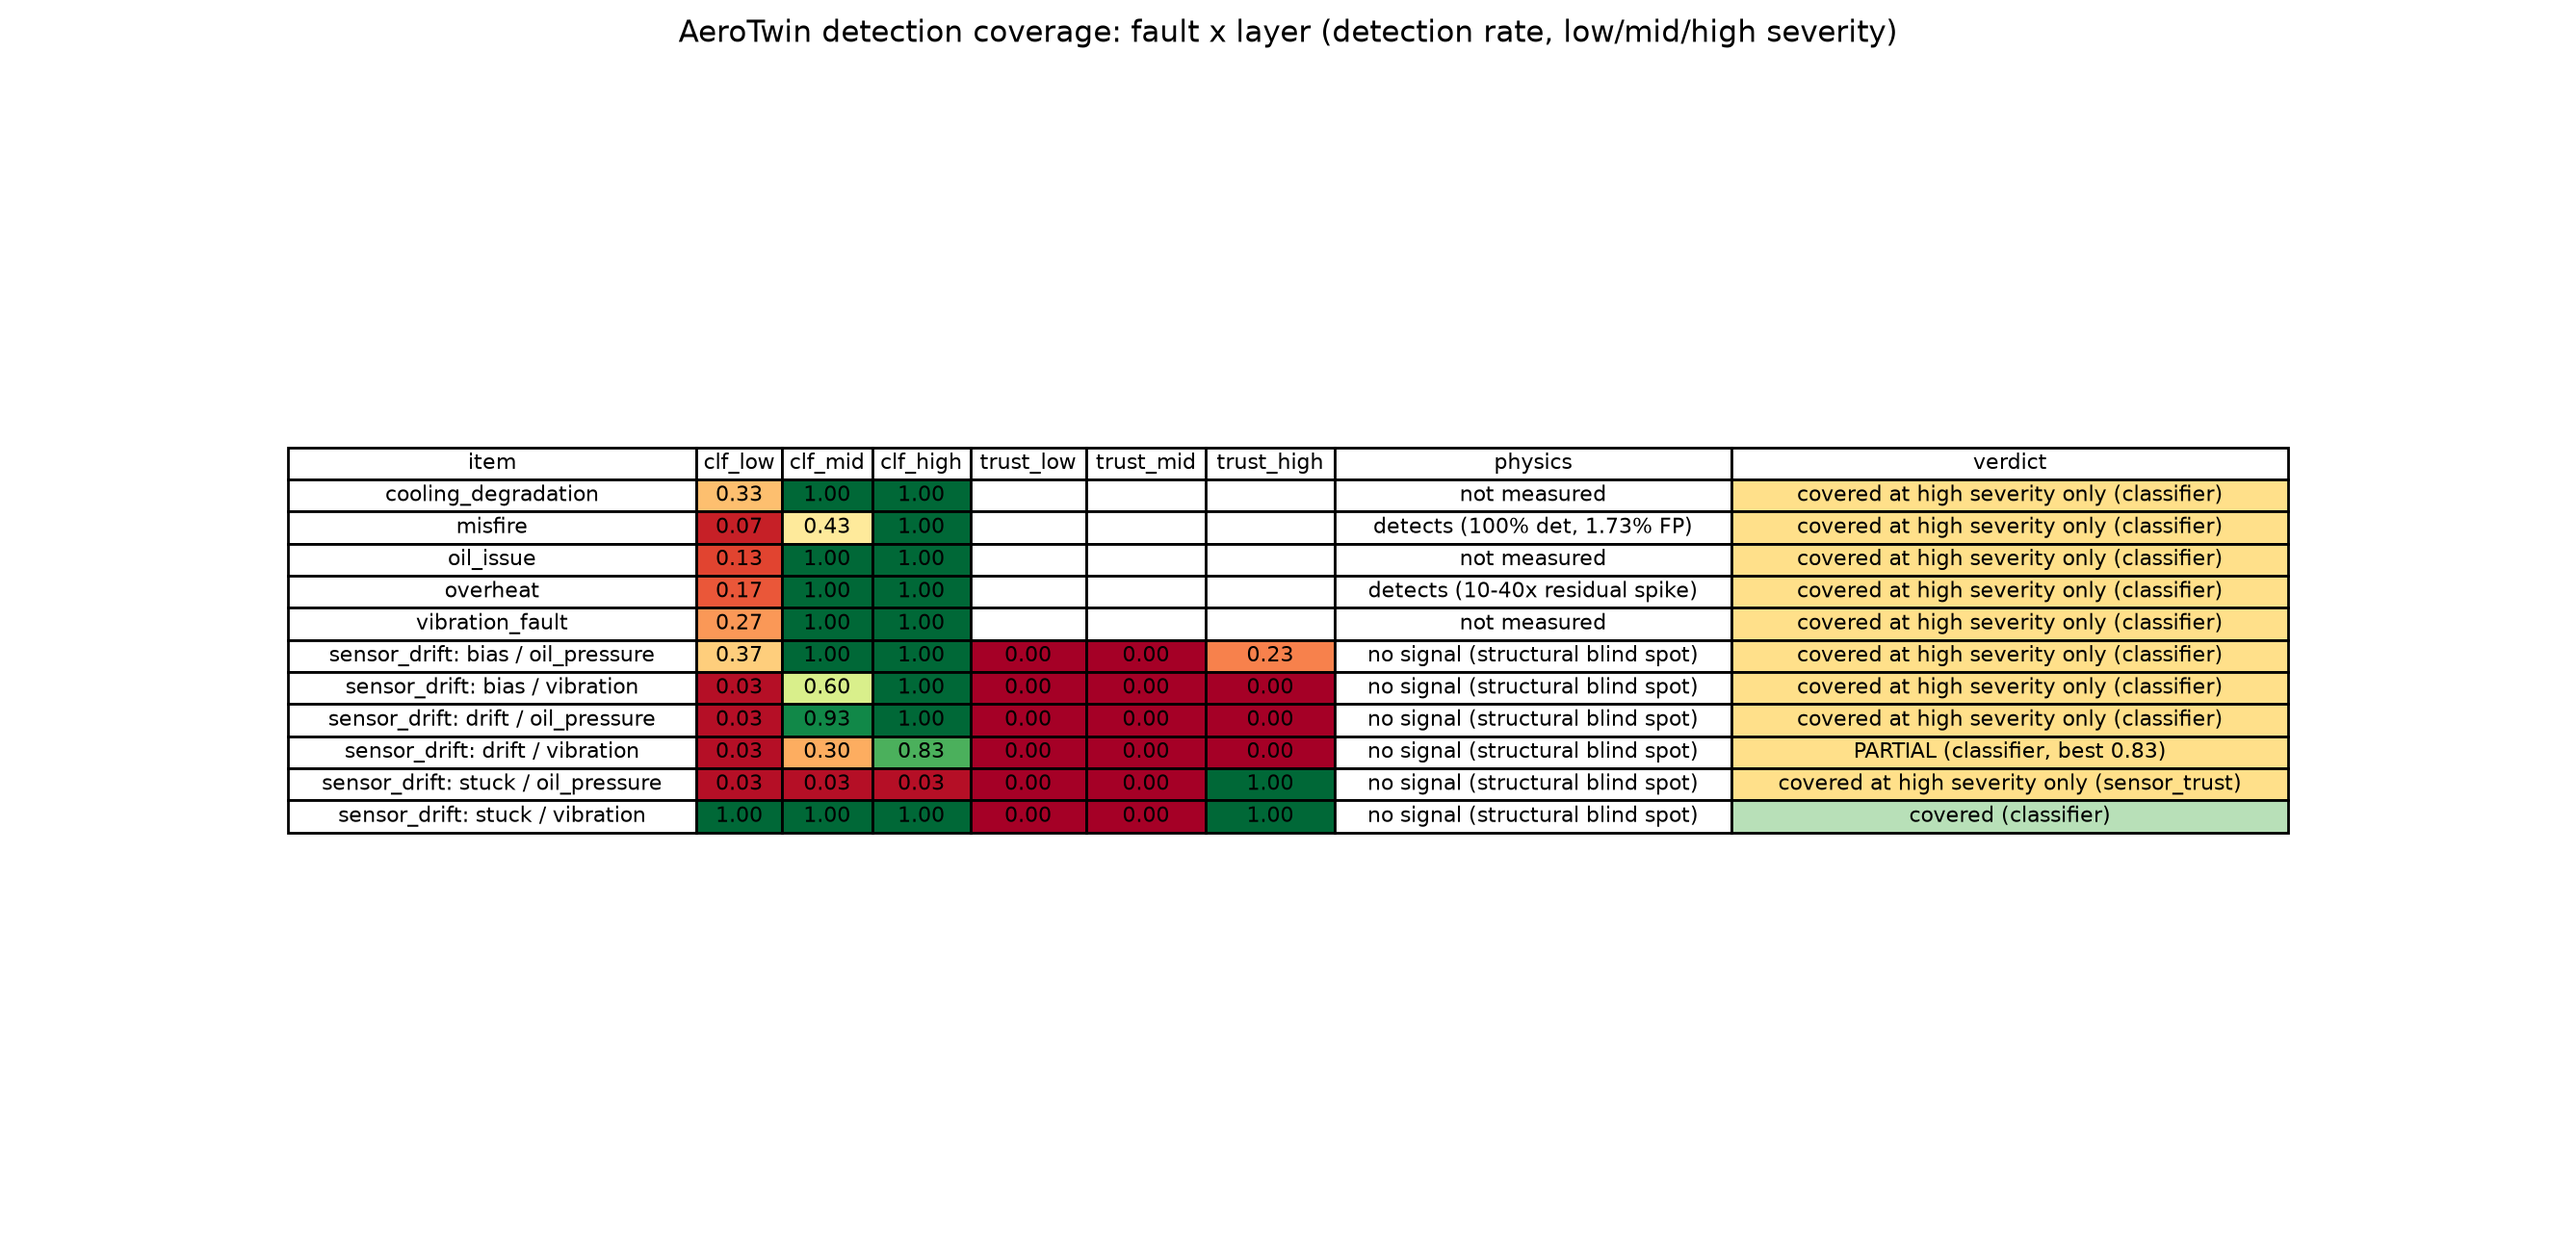
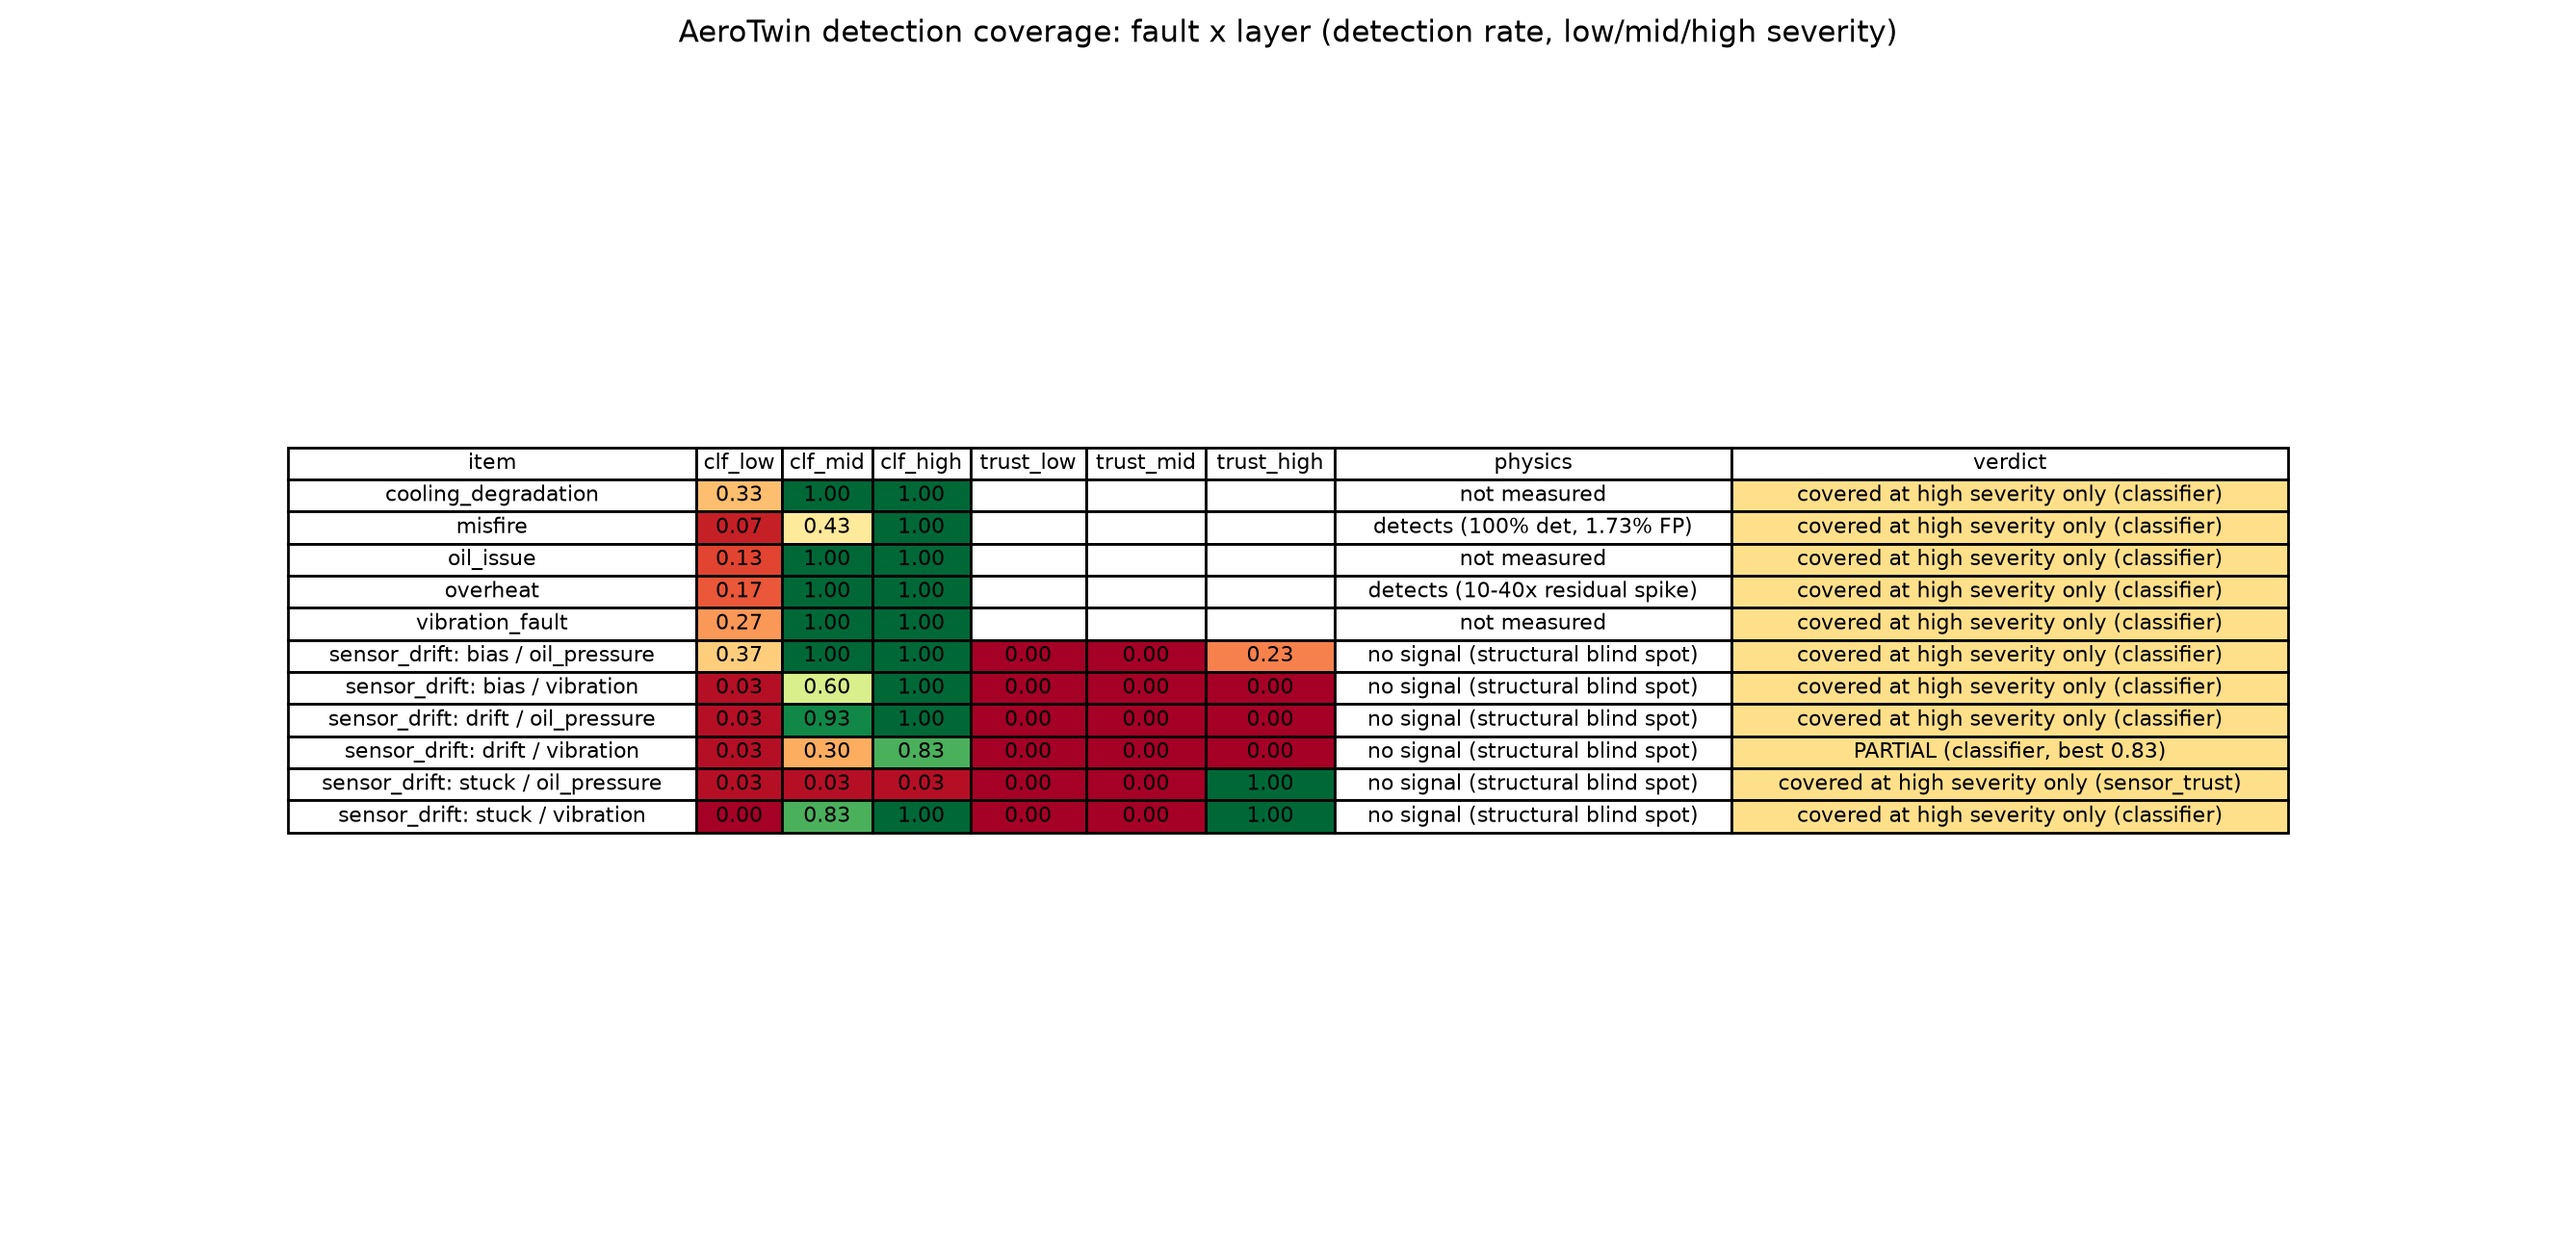
fault injectors: severity scales all components; regenerate POD + coverage results

Changed region(s): [[0.6516, 0.6206, 0.8998, 0.6827], [0.2482, 0.6206, 0.3413, 0.6827]]

diff --git a/simulator/fault_injectors.py b/simulator/fault_injectors.py
@@ -8,6 +8,21 @@ perturbs sensors after onset to simulate the fault developing, and returns
 a faulted DataFrame with ground-truth RUL columns attached (since the fault
 onset/failure point is known by construction).
 
+SEVERITY SCALING (revision): severity now scales EVERY component of a fault,
+so severity=0 returns the healthy signal unchanged (apart from labels/RUL
+columns). Previously these parts ignored severity, which made low-severity
+detection look better than it is (noise cue, not a real offset):
+  - misfire: base misfire probability, RPM/EGT/vibration event sizes
+  - overheat / overheat_recovery / cooling_degradation / oil_issue:
+    per-row added noise
+  - vibration_fault: burstiness (spike_std)
+  - sensor_drift "stuck": now a partial freeze -- the sensor tracks the true
+    signal with weight (1 - min(severity, 1)); severity >= 1 is a full freeze
+At severity=1.0 every injector produces output identical to the previous
+version for the same seed (same random draws, multiplied by 1.0), so existing
+flights, the RUL model and the classifier stay valid. Results at other
+severities change by design -- rerun pod_sweep.py.
+
 Run directly to sanity-check + plot: python simulator/fault_injectors.py
 """
 import numpy as np
@@ -55,6 +70,9 @@ def inject_misfire(df, onset_frac=None, severity=1.0, seed=None):
     Misfire: irregular RPM drops (individual cylinder firing failures) with
     corresponding EGT spikes on the affected cycles (unburnt fuel igniting
     late in the exhaust). Gets more frequent/severe as it approaches failure.
+
+    Severity scales both how often misfires happen (including the 0.05 base
+    rate) and how large each event is (RPM drop, EGT spike, vibration).
     """
     rng = np.random.default_rng(seed)
     df = df.copy()
@@ -66,11 +84,11 @@ def inject_misfire(df, onset_frac=None, severity=1.0, seed=None):
     for i in range(onset_idx, n):
         linear_progress = (i - onset_idx) / max(1, (failure_idx - onset_idx))  # 0 -> 1
         progress = _degradation_curve(linear_progress)  # convex, calibrated to C-MAPSS shape
-        misfire_prob = 0.05 + 0.5 * progress * severity
+        misfire_prob = min(1.0, severity * (0.05 + 0.5 * progress))
         if rng.random() < misfire_prob:
-            df.loc[i, "rpm"] -= rng.uniform(80, 250) * (0.5 + progress)
-            df.loc[i, "egt"] += rng.uniform(15, 60) * (0.5 + progress)
-            df.loc[i, "vibration"] += rng.uniform(0.3, 1.0) * (0.5 + progress)
+            df.loc[i, "rpm"] -= rng.uniform(80, 250) * (0.5 + progress) * severity
+            df.loc[i, "egt"] += rng.uniform(15, 60) * (0.5 + progress) * severity
+            df.loc[i, "vibration"] += rng.uniform(0.3, 1.0) * (0.5 + progress) * severity
             df.loc[i, "fault_type"] = "misfire"
 
     df = _add_rul_column(df, onset_idx, failure_idx)
@@ -82,6 +100,8 @@ def inject_overheat(df, onset_frac=None, severity=1.0, seed=None):
     Overheating / combustion instability: EGT and CHT both trend upward
     together after onset (distinguish from cooling_degradation, where CHT
     rises but EGT stays flatter -- see Miljkovic's EGT-CHT pattern).
+
+    Severity scales the end rise and the per-row added noise.
     """
     rng = np.random.default_rng(seed)
     df = df.copy()
@@ -96,8 +116,8 @@ def inject_overheat(df, onset_frac=None, severity=1.0, seed=None):
     for i in range(onset_idx, n):
         linear_progress = (i - onset_idx) / max(1, ramp_len)
         progress = _degradation_curve(linear_progress)  # convex, calibrated to C-MAPSS shape
-        df.loc[i, "egt"] += egt_end_rise * progress + rng.normal(0, 2)
-        df.loc[i, "cht"] += cht_end_rise * progress + rng.normal(0, 1.5)
+        df.loc[i, "egt"] += egt_end_rise * progress + rng.normal(0, 2 * severity)
+        df.loc[i, "cht"] += cht_end_rise * progress + rng.normal(0, 1.5 * severity)
         df.loc[i, "fault_type"] = "overheat"
 
     df = _add_rul_column(df, onset_idx, failure_idx)
@@ -155,8 +175,8 @@ def inject_overheat_recovery(df, onset_frac=None, severity=1.0, seed=None,
             linear_progress = (i - trigger_idx) / max(1, post_trigger_len)
             progress = _degradation_curve(linear_progress) * (reduced_severity / max(severity, 1e-6))
 
-        df.loc[i, "egt"] += egt_end_rise * progress + rng.normal(0, 2)
-        df.loc[i, "cht"] += cht_end_rise * progress + rng.normal(0, 1.5)
+        df.loc[i, "egt"] += egt_end_rise * progress + rng.normal(0, 2 * severity)
+        df.loc[i, "cht"] += cht_end_rise * progress + rng.normal(0, 1.5 * severity)
         df.loc[i, "fault_type"] = "overheat"
 
     df = _add_rul_column(df, onset_idx, failure_idx)
@@ -168,6 +188,8 @@ def inject_cooling_degradation(df, onset_frac=None, severity=1.0, seed=None):
     Cooling degradation: CHT rises steadily while EGT stays relatively flat
     (heat isn't being carried away properly, but combustion itself is fine) --
     the opposite signature from overheat/combustion-instability.
+
+    Severity scales the end rise and the per-row added noise.
     """
     rng = np.random.default_rng(seed)
     df = df.copy()
@@ -181,9 +203,9 @@ def inject_cooling_degradation(df, onset_frac=None, severity=1.0, seed=None):
     for i in range(onset_idx, n):
         linear_progress = (i - onset_idx) / max(1, ramp_len)
         progress = _degradation_curve(linear_progress)  # convex, calibrated to C-MAPSS shape
-        df.loc[i, "cht"] += cht_end_rise * progress + rng.normal(0, 1.5)
+        df.loc[i, "cht"] += cht_end_rise * progress + rng.normal(0, 1.5 * severity)
         # EGT gets only a small secondary rise -- this is what separates it from overheat
-        df.loc[i, "egt"] += (cht_end_rise * 0.15) * progress + rng.normal(0, 2)
+        df.loc[i, "egt"] += (cht_end_rise * 0.15) * progress + rng.normal(0, 2 * severity)
         df.loc[i, "fault_type"] = "cooling_degradation"
 
     df = _add_rul_column(df, onset_idx, failure_idx)
@@ -192,10 +214,14 @@ def inject_cooling_degradation(df, onset_frac=None, severity=1.0, seed=None):
 
 def inject_oil_issue(df, onset_frac=None, severity=1.0, seed=None):
     """
-    Oil issue: gradual oil pressure drop combined with a slower oil temp rise,
+    Oil issue: gradual oil pressure drop combined with an oil temp rise,
     representing a developing lubrication problem (seal wear, oil breakdown,
     or a slow leak). Other sensors stay normal -- this is a lubrication-side
     fault, not a combustion-side one.
+
+    NOTE: pressure and temperature both follow the SAME degradation curve;
+    temperature does not lag or rise more slowly than pressure falls.
+    Severity scales both end shifts and the per-row added noise.
     """
     rng = np.random.default_rng(seed)
     df = df.copy()
@@ -210,8 +236,8 @@ def inject_oil_issue(df, onset_frac=None, severity=1.0, seed=None):
     for i in range(onset_idx, n):
         linear_progress = (i - onset_idx) / max(1, ramp_len)
         progress = _degradation_curve(linear_progress)
-        df.loc[i, "oil_pressure"] -= pressure_end_drop * progress + rng.normal(0, 0.5)
-        df.loc[i, "oil_temp"] += temp_end_rise * progress + rng.normal(0, 1.0)
+        df.loc[i, "oil_pressure"] -= pressure_end_drop * progress + rng.normal(0, 0.5 * severity)
+        df.loc[i, "oil_temp"] += temp_end_rise * progress + rng.normal(0, 1.0 * severity)
         df.loc[i, "fault_type"] = "oil_issue"
 
     df = _add_rul_column(df, onset_idx, failure_idx)
@@ -228,7 +254,11 @@ def inject_sensor_drift(df, onset_frac=None, severity=1.0, seed=None, sub_type=N
       - "bias"  -- a sudden constant offset appears at onset and stays fixed
       - "drift" -- an offset that grows steadily/linearly over time
       - "stuck" -- the sensor freezes at a constant value regardless of what
-                   the engine is actually doing (zero variance after onset)
+                   the engine is actually doing (zero variance after onset).
+                   Severity < 1 gives a PARTIAL freeze: the reading tracks
+                   the true signal with weight (1 - severity), i.e. a
+                   sluggish sensor. Severity >= 1 is a full freeze, and
+                   severity 0 leaves the sensor untouched.
     """
     rng = np.random.default_rng(seed)
     df = df.copy()
@@ -243,6 +273,7 @@ def inject_sensor_drift(df, onset_frac=None, severity=1.0, seed=None, sub_type=N
     ramp_len = failure_idx - onset_idx
     frozen_value = df.loc[onset_idx, target_sensor] if onset_idx < n else df[target_sensor].iloc[0]
     bias_amount = rng.uniform(0.15, 0.35) * df[target_sensor].mean() * severity
+    freeze_strength = min(max(severity, 0.0), 1.0)
 
     for i in range(onset_idx, n):
         linear_progress = (i - onset_idx) / max(1, ramp_len)
@@ -251,7 +282,8 @@ def inject_sensor_drift(df, onset_frac=None, severity=1.0, seed=None, sub_type=N
         elif sub_type == "drift":
             df.loc[i, target_sensor] += bias_amount * linear_progress
         elif sub_type == "stuck":
-            df.loc[i, target_sensor] = frozen_value
+            true_value = df.loc[i, target_sensor]
+            df.loc[i, target_sensor] = frozen_value + (1.0 - freeze_strength) * (true_value - frozen_value)
         df.loc[i, "fault_type"] = "sensor_drift"
 
     df["drift_sub_type"] = sub_type
@@ -266,6 +298,8 @@ def inject_vibration_fault(df, onset_frac=None, severity=1.0, seed=None):
     level (progressive imbalance) with rising variance/spikiness (mounting
     looseness) -- plausible under multiple underlying mechanical causes
     rather than one narrow pattern.
+
+    Severity scales both the mean rise and the burstiness (spike_std).
     """
     rng = np.random.default_rng(seed)
     df = df.copy()
@@ -279,7 +313,7 @@ def inject_vibration_fault(df, onset_frac=None, severity=1.0, seed=None):
     for i in range(onset_idx, n):
         linear_progress = (i - onset_idx) / max(1, ramp_len)
         progress = _degradation_curve(linear_progress)
-        spike_std = 0.1 + 0.4 * progress
+        spike_std = (0.1 + 0.4 * progress) * severity
         df.loc[i, "vibration"] += vib_end_rise * progress + rng.normal(0, spike_std)
         df.loc[i, "fault_type"] = "vibration_fault"
 

diff --git a/pod_sweep.py b/pod_sweep.py
@@ -48,7 +48,7 @@ CLASS_NAMES = ["cooling_degradation", "misfire", "none", "oil_issue",
                "overheat", "sensor_drift", "vibration_fault"]
 NONE_IDX = CLASS_NAMES.index("none")
 
-SEVERITIES = (0.1, 0.2, 0.35, 0.5, 0.75, 1.0)
+SEVERITIES = (0.0, 0.1, 0.2, 0.35, 0.5, 0.75, 1.0)
 NOISE_LEVELS = (0.0, 0.02, 0.05)      # fraction of each sensor's healthy span
 ONSET_FRAC = 0.4
 DURATION = 300
